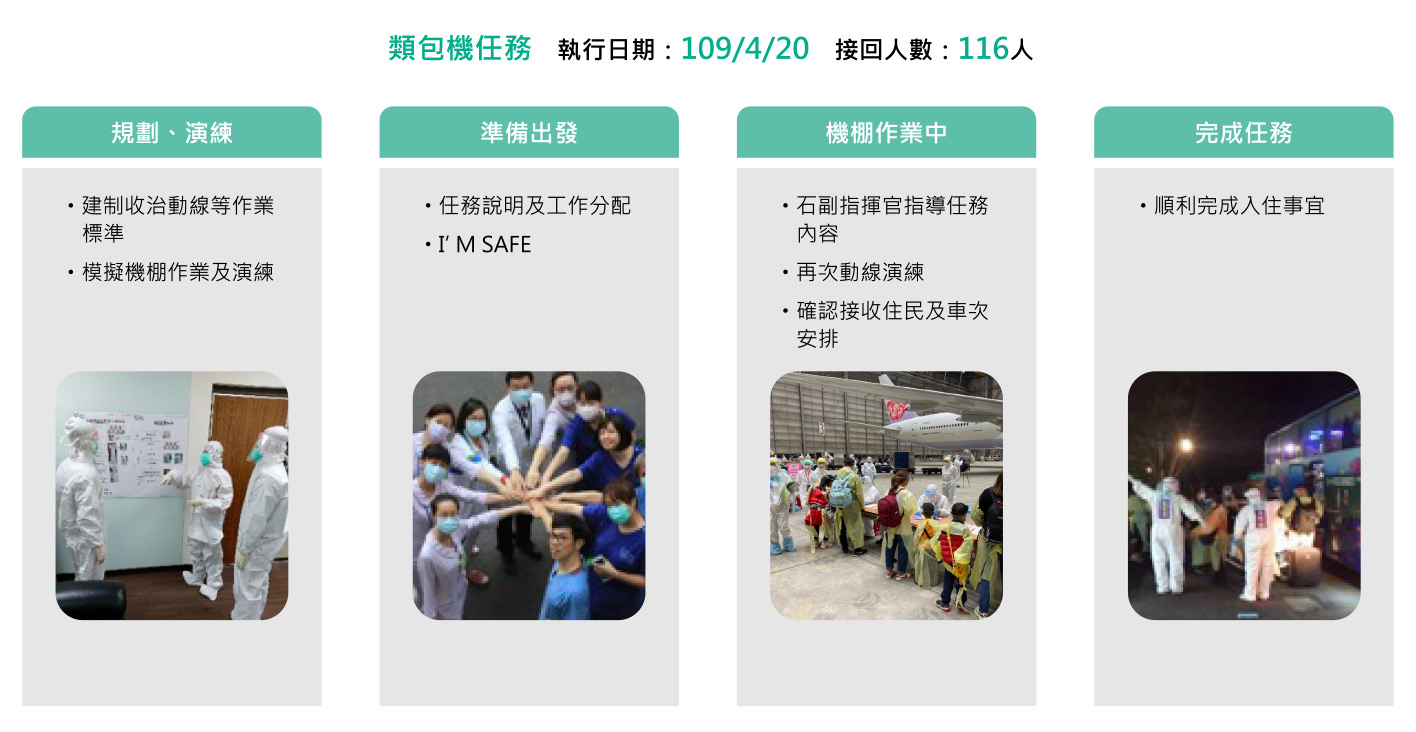
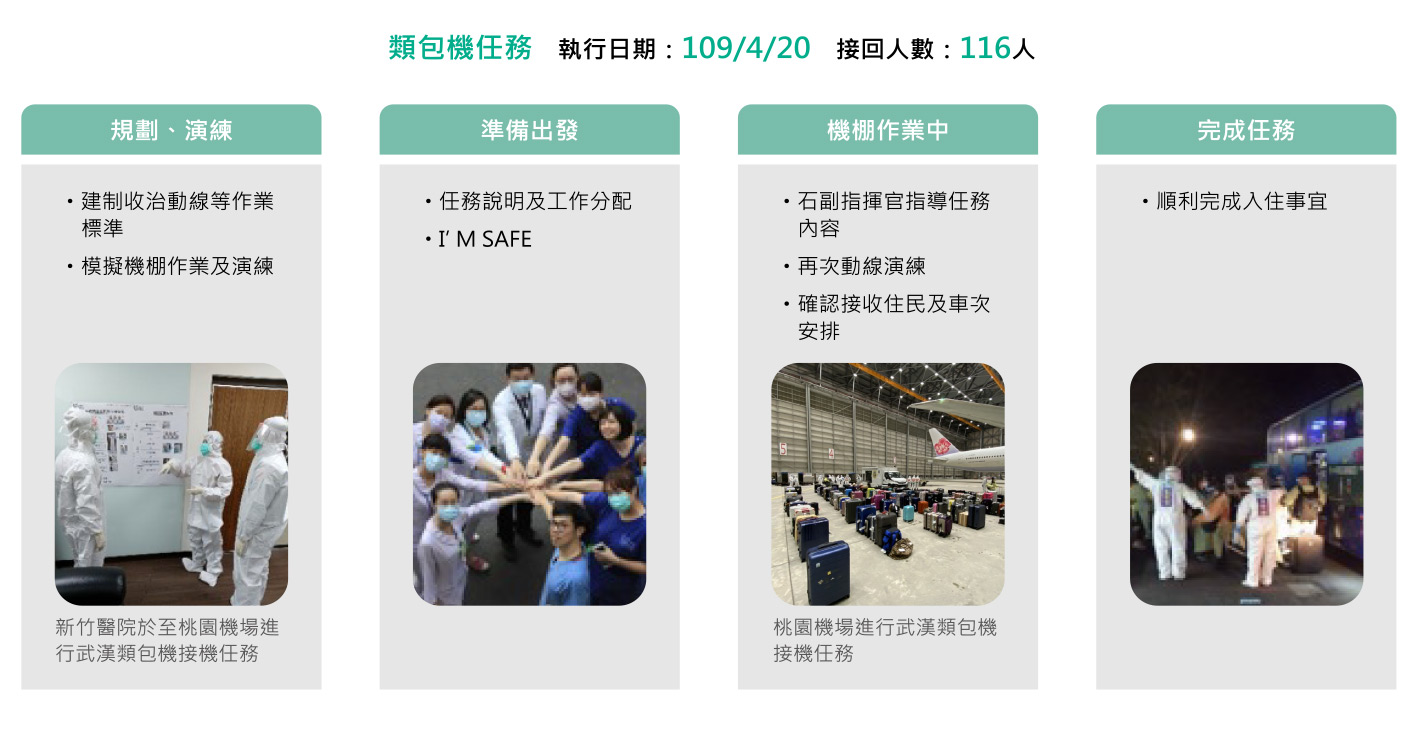
update

diff --git a/anti_epidemic5.html b/anti_epidemic5.html
@@ -93,9 +93,8 @@
                                 <div class="text">成立新竹集中檢疫所</div>
                             </div>
                             <div class="col-md-5">
-                                <img src="images/img_anti_epidemic9_2.jpg" class="img-fluid Anti_epidemic_img mb-3" alt="" data-aos="fade-left">
-                                <img src="images/img_anti_epidemic9_3.jpg" class="img-fluid Anti_epidemic_img" alt="" data-aos="fade-left">
-                                <div class="text">新竹集中檢疫所(陳時中部長、余忠仁院長與同仁合影)</div>
+                                <img src="images/img_anti_epidemic9_2.jpg" class="img-fluid Anti_epidemic_img" alt="" data-aos="fade-left">
+                                <div class="text">桃園機場進行類包機接機任務</div>
                             </div>
                             <div class="col-md-6">
                                 <p>檢疫所由醫軍警跨業跨團隊合作，提供一條龍服務，新竹臺大分院負責住民身心靈健康照護、保安警察第一總隊負責檢疫所安全，空軍第二戰術戰鬥機聯隊提供檢疫所日常生活供給之後勤作業。</p>
